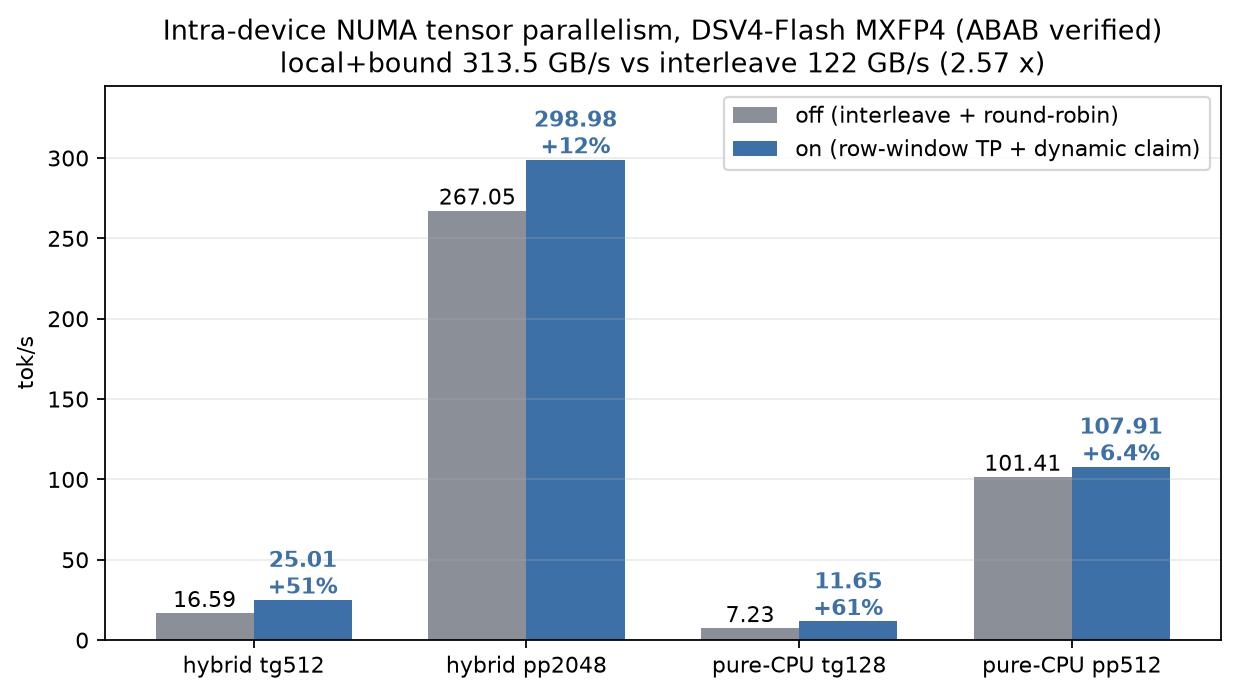
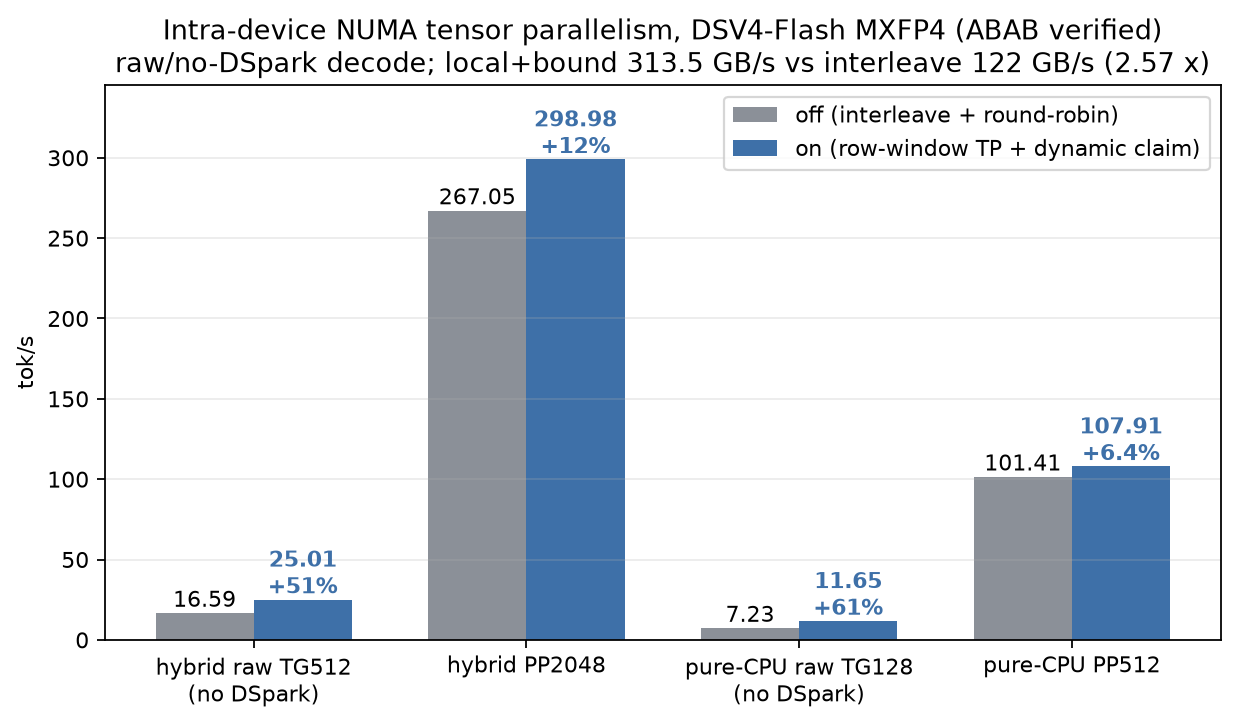
docs: distinguish raw and DSpark results
Assisted-by: OpenAI Codex

diff --git a/docs/benchmarks/plot-project-overview.py b/docs/benchmarks/plot-project-overview.py
@@ -28,35 +28,35 @@ def finish(fig, name):
 
 def evolution():
     stages = [
-        "Baseline\nMXFP4",
-        "Spec-decode\ntune (n2/p0)",
-        "Op fusion +\nasync readback",
-        "E4A native\nlayout",
-        "64-row claim +\ntail batching",
-        "Strict K24\nhot-expert",
+        "MXFP4\nbaseline",
+        "DSpark\ntune (n2/p0)",
+        "Raw GPU\nop fusion",
+        "E4A raw\nnative layout",
+        "DSpark claim +\ntail batching",
+        "E4A raw\nstrict K24 hot",
     ]
     x = np.arange(len(stages))
-    pp = [309, 309, 309, 363, 367, 361.47]
-    raw = [24.9, 24.9, 25.9, 24.83, 25.02, 30.23]
-    spec = [23.9, 26.8, 26.8, 26.8, 30.1, 30.1]
+    pp = [309, np.nan, np.nan, 362.92, np.nan, 361.47]
+    raw = [24.9, np.nan, 25.9, 24.83, np.nan, 30.23]
+    spec = [23.9, 26.8, np.nan, np.nan, 30.1, np.nan]
 
     fig, left = plt.subplots(figsize=(10, 4.8))
     right = left.twinx()
-    left.step(x, pp, where="post", marker="o", color=GREEN, linewidth=2.2, label="pp2048 (tok/s, left)")
-    right.step(x, raw, where="post", marker="s", color=BLUE, linewidth=2.2, label="tg512 raw (tok/s, right)")
-    right.step(x, spec, where="post", marker="^", linestyle="--", color=ORANGE, linewidth=2.2, label="tg512 speculative (tok/s, right)")
+    left.plot(x, pp, marker="o", color=GREEN, linewidth=2.2, label="PP2048 (prefill, left)")
+    right.plot(x, raw, marker="s", color=BLUE, linewidth=2.2, label="TG512 raw/no-DSpark (right)")
+    right.plot(x, spec, marker="^", linestyle="--", color=ORANGE, linewidth=2.2, label="TG512 DSpark speculative (right)")
     left.set_ylim(250, 430)
     right.set_ylim(20, 33)
     left.set_ylabel("Prefill pp2048 (tok/s)", color=GREEN)
-    right.set_ylabel("Decode tg512 (tok/s)")
+    right.set_ylabel("Decode TG512 (raw/spec; see legend)")
     left.set_xticks(x, stages)
     left.grid(alpha=0.25)
     lines = left.lines + right.lines
     left.legend(lines, [line.get_label() for line in lines], loc="upper left")
-    left.set_title("DSV4-Flash performance milestones (2 x Xeon ICX-SP + 2 x RTX 3090)\nstrict E4A K24 final: PPL 2.7758 -> 2.7548; tracks are not multiplicative")
-    for px, py, label, offset in [(0, 309, "309", (-12, 10)), (3, 363, "363", (0, 10)), (5, 361.47, "361.47", (12, -16))]:
+    left.set_title("DSV4-Flash independently measured performance tracks (2 x Xeon ICX-SP + 2 x RTX 3090)\nblank points are untested cross-combinations; tracks must not be multiplied")
+    for px, py, label, offset in [(0, 309, "309", (-12, 10)), (3, 362.92, "362.92", (0, 10)), (5, 361.47, "361.47", (12, -16))]:
         left.annotate(label, (px, py), xytext=offset, textcoords="offset points", ha="center", color=GREEN, fontweight="bold")
-    for px, py, label, offset in [(0, 24.9, "24.9", (0, -18)), (2, 25.9, "25.9", (0, -16)), (4, 25.02, "25.02", (-12, -16)), (5, 30.23, "30.23", (0, -16))]:
+    for px, py, label, offset in [(0, 24.9, "24.9", (0, -18)), (2, 25.9, "25.9", (0, -16)), (3, 24.83, "24.83", (-12, -16)), (5, 30.23, "30.23", (0, -16))]:
         right.annotate(label, (px, py), xytext=offset, textcoords="offset points", ha="center", color=BLUE, fontweight="bold")
     for px, py, label in [(0, 23.9, "23.9"), (1, 26.8, "26.8"), (4, 30.1, "30.1")]:
         right.annotate(label, (px, py), xytext=(0, 10), textcoords="offset points", ha="center", color=ORANGE, fontweight="bold")
@@ -64,7 +64,7 @@ def evolution():
 
 
 def numa_tp():
-    labels = ["hybrid tg512", "hybrid pp2048", "pure-CPU tg128", "pure-CPU pp512"]
+    labels = ["hybrid raw TG512\n(no DSpark)", "hybrid PP2048", "pure-CPU raw TG128\n(no DSpark)", "pure-CPU PP512"]
     off = np.array([16.59, 267.05, 7.23, 101.41])
     on = np.array([25.01, 298.98, 11.65, 107.91])
     changes = ["+51%", "+12%", "+61%", "+6.4%"]
@@ -78,7 +78,7 @@ def numa_tp():
     ax.set_ylim(0, 345)
     ax.grid(axis="y", alpha=0.25)
     ax.legend(loc="upper right")
-    ax.set_title("Intra-device NUMA tensor parallelism, DSV4-Flash MXFP4 (ABAB verified)\nlocal+bound 313.5 GB/s vs interleave 122 GB/s (2.57 x)")
+    ax.set_title("Intra-device NUMA tensor parallelism, DSV4-Flash MXFP4 (ABAB verified)\nraw/no-DSpark decode; local+bound 313.5 GB/s vs interleave 122 GB/s (2.57 x)")
     for bar, value in zip(bars_off, off):
         ax.text(bar.get_x() + bar.get_width() / 2, value + 4, f"{value:.2f}", ha="center")
     for bar, value, change in zip(bars_on, on, changes):
@@ -153,7 +153,7 @@ def formats():
     trend_mask = kinds != "xllama"
     for ax, values, counter, ylabel, offsets, trend_label_x, trend_ha in (
         (axes[0], pp, counter_pp, "pp2048 (tok/s)", pp_offsets, 0.015, "left"),
-        (axes[1], tg, counter_tg, "tg512 (tok/s)", tg_offsets, 0.985, "right"),
+        (axes[1], tg, counter_tg, "tg512 raw/no-DSpark (tok/s)", tg_offsets, 0.985, "right"),
     ):
         trend_sizes = sizes[trend_mask]
         trend_values = values[trend_mask]
@@ -216,7 +216,7 @@ def udnl_mx_tradeoff():
     metrics = [
         ("Model size", [119.40, 116.13], [0, 0], "GiB", "lower is better", False),
         ("PP2048", [207.69, 418.95], [0, 3.50], "tok/s", "2.02 x faster", True),
-        ("TG512", [25.34, 26.90], [0, 0.25], "tok/s", "+6.2%", True),
+        ("TG512 raw\n(no DSpark)", [25.34, 26.90], [0, 0.25], "tok/s", "+6.2%", True),
         ("WikiText-2 PPL", [4.0189, 4.6047], [0, 0.1782], "PPL", "+14.6% worse", False),
     ]
     fig, axes = plt.subplots(1, 4, figsize=(13.2, 3.9))
@@ -270,9 +270,11 @@ def gpu_prefill():
 
 
 def remote_ep():
-    fig, axes = plt.subplots(1, 3, figsize=(12, 4.1))
+    fig, axes = plt.subplots(2, 2, figsize=(12, 7.8))
+    axes = axes.ravel()
     pairs = [
-        ([22.1, 25.2], ["1 machine\n2 NUMA workers", "2 machines\n4 NUMA workers"], "DSV4-Flash TG512\nmatched pure EP", "tok/s"),
+        ([22.1, 25.2], ["1 machine\n2 NUMA workers", "2 machines\n4 NUMA workers"], "DSV4-Flash raw TG512 (no DSpark)\nmatched pure EP", "tok/s"),
+        ([25.25, 28.85], ["4-worker\nremote-only (A)", "CUDA1 K24 hot\n+ remote cold (B)"], "DSV4-Flash raw TG512 (no DSpark)\nstrict hot + remote bridge", "tok/s"),
         ([64.3, 75.6], ["1 machine\n2 NUMA workers", "2 machines\n4 NUMA workers"], "DSV4-Flash 31-token prompt\nmatched pure EP", "tok/s"),
         ([58.0, 11.5], ["TCP", "RDMA\nRoCEv2"], "Cross-machine RPC RTT\n64 B message", "us"),
     ]
@@ -285,9 +287,15 @@ def remote_ep():
         for bar, value in zip(bars, values):
             ax.text(bar.get_x() + bar.get_width() / 2, value * 1.03, f"{value:g}", ha="center", fontweight="bold")
     axes[0].text(0.5, 0.68, "+14.03%", transform=axes[0].transAxes, ha="center", color=PURPLE, fontsize=13, fontweight="bold")
-    axes[1].text(0.5, 0.68, "+17.57%", transform=axes[1].transAxes, ha="center", color=PURPLE, fontsize=13, fontweight="bold")
-    fig.subplots_adjust(top=0.72, wspace=0.35)
-    fig.suptitle("DSV4-Flash single-slot expert parallelism over a 100 GbE direct link\nmatched command and identical generated response", y=0.99)
+    axes[1].text(0.5, 0.66, "+14.26%", transform=axes[1].transAxes, ha="center", color=PURPLE, fontsize=13, fontweight="bold")
+    axes[1].text(0.5, 0.54, "paired PPL -0.85%", transform=axes[1].transAxes, ha="center", color=ORANGE, fontsize=10, fontweight="bold")
+    axes[2].text(0.5, 0.68, "+17.57%", transform=axes[2].transAxes, ha="center", color=PURPLE, fontsize=13, fontweight="bold")
+    fig.subplots_adjust(top=0.84, wspace=0.28, hspace=0.52)
+    fig.suptitle(
+        "Independent DSV4-Flash single-slot EP comparisons over a 100 GbE direct link\n"
+        "combined hot + remote result is strict-cover REQ4, raw/no-DSpark, and not MAX_EFFORT",
+        y=0.985,
+    )
     finish(fig, "remote-ep.png")
 
 

diff --git a/README.en.md b/README.en.md
@@ -16,15 +16,16 @@ Primary test system: dual Intel Ice Lake-SP sockets (152 logical threads, 251 Gi
 
 ## Verified results
 
-Each row below is an independent benchmark scope. Percentages from different rows must not be multiplied together.
+Each row below is an independent benchmark scope. Percentages from different rows must not be multiplied together. Decode results are explicitly labeled `raw/no-DSpark` or `DSpark speculative`; PP is prefill and contains no draft-acceptance gain.
 
 | Track | Matched baseline | Current result | Change |
 |---|---:|---:|---:|
 | DSV4 pp2048, quality-equivalent MXFP4 -> E4A | 312.48 tok/s | **362.92 tok/s** | **+16.1%** |
-| DSV4 DSpark decode, n2/p0 | 23.9 tok/s | **30.1 tok/s** | **+26%** |
-| DSV4 E4A decode, strict hot experts, 12-run A/B | 25.02 tok/s | **30.23 tok/s** | **+20.85%** |
+| DSV4 DSpark speculative decode, n2/p0 | 23.9 tok/s | **30.1 tok/s** | **+26%** |
+| DSV4 E4A raw/no-DSpark decode, strict hot experts, 12-run A/B | 25.02 tok/s | **30.23 tok/s** | **+20.85%** |
 | DSV4 16K GPU MoE prefill | 213 tok/s | **334.5 tok/s** | **+57%** |
-| DSV4 single-slot pure EP, 2 -> 4 NUMA workers | 22.1 tok/s | **25.2 tok/s** | **+14.03%** |
+| DSV4 single-slot raw/no-DSpark pure EP, 2 -> 4 NUMA workers | 22.1 tok/s | **25.2 tok/s** | **+14.03%** |
+| DSV4 single-slot raw/no-DSpark, four-worker strict remote-only -> GPU-hot + CPU-remote | 25.25 tok/s | **28.85 tok/s** | **+14.26%** |
 | GLM-5.2 pp512, true EP on 2 -> 4 NUMA workers | 24.13 tok/s | **40.59 tok/s** | **+68.2%** |
 
 ![Milestones across three performance tracks](docs/img/evolution-staircase.png)
@@ -37,11 +38,11 @@ Naive interleaving on a dual-socket machine sends a large fraction of weight rea
 
 ### 2. Mirror: eliminate remote reads first
 
-`--numa mirror` keeps one complete weight replica per socket and binds pages and threads to the same node. It removes cross-UPI expert traffic and reaches 30.35 tok/s on DSV4 tg512, about 8%-13% above the same-machine upstream distribute result of 26.9-28.0 tok/s. The cost is 2 x expert-weight memory.
+`--numa mirror` keeps one complete weight replica per socket and binds pages and threads to the same node. It removes cross-UPI expert traffic and reaches 30.35 tok/s on DSV4 raw/no-DSpark tg512, about 8%-13% above the same-machine upstream distribute result of 26.9-28.0 tok/s. The cost is 2 x expert-weight memory.
 
 ### 3. NUMA EP: half the memory, but static ownership is too coarse
 
-The next design stores each expert on only one node. Expert memory is halved and pp512 roughly matches mirror (343-348 versus 338-347 tok/s). At batch=1, however, one expert is one indivisible GEMV. Statically placing eight active experts into two nodes leaves a long-tail bubble and reaches only 23.9-24.2 tok/s on tg512. This stage established the central constraint: **placement must preserve fine-grained parallelism and scheduling freedom.**
+The next design stores each expert on only one node. Expert memory is halved and pp512 roughly matches mirror (343-348 versus 338-347 tok/s). At batch=1, however, one expert is one indivisible GEMV. Statically placing eight active experts into two nodes leaves a long-tail bubble and reaches only 23.9-24.2 tok/s on raw/no-DSpark tg512. This stage established the central constraint: **placement must preserve fine-grained parallelism and scheduling freedom.**
 
 ### 4. NUMA row-window TP + DME
 
@@ -51,9 +52,9 @@ The final layout alternates 128-row windows of every expert plane across the two
 
 | Workload | Off | On | Change |
 |---|---:|---:|---:|
-| hybrid tg512 | 16.59 | **25.01** | **+51%** |
+| hybrid raw/no-DSpark tg512 | 16.59 | **25.01** | **+51%** |
 | hybrid pp2048 | 267.05 | **298.98** | +12% |
-| pure-CPU tg128 | 7.23 | **11.65** | **+61%** |
+| pure-CPU raw/no-DSpark tg128 | 7.23 | **11.65** | **+61%** |
 | pure-CPU pp512 | 101.41 | **107.91** | +6.4% |
 
 On top of row-window TP, DME (Dynamic Matrix Execution) handles irregular MoE shapes inside each node:
@@ -67,8 +68,8 @@ On top of row-window TP, DME (Dynamic Matrix Execution) handles irregular MoE sh
 
 In the production-style hybrid path, the GPU runs attention, dense layers, the router, and KV; the CPU runs routed experts. Three complementary mechanisms target different phases:
 
-- **Hot-expert residency**: the top 24 experts per layer cover about 57.6% of selections; compact MXFP4 weights for all 43 layers use 12.85 GiB. The GPU hot branch and CPU cold branch fork and join inside the graph. The GPU returns per-router-slot values, the CPU restores the baseline slot 0..5 left fold, and AVX512 vectorizes only across hidden rows. Twelve tg512 runs improve from 25.0167 to 30.2333 tok/s (+20.85%); PP2048 is 361.47 tok/s and five-chunk PPL improves from 2.7758 to 2.7548.
-- **NVLink P2P TP**: capture-safe P2P allreduce and asynchronous D2H readback improve the TP path itself from 13.6 to 20.3 tok/s (+49%) and reduce `cudaStreamSynchronize` from about 690 to 150 calls per token. This is an internal TP-path A/B, not a comparison against the best layer-placement path.
+- **Hot-expert residency**: the top 24 experts per layer cover about 57.6% of selections; compact MXFP4 weights for all 43 layers use 12.85 GiB. The GPU hot branch and CPU cold branch fork and join inside the graph. The GPU returns per-router-slot values, the CPU restores the baseline slot 0..5 left fold, and AVX512 vectorizes only across hidden rows. Twelve raw/no-DSpark tg512 runs improve from 25.0167 to 30.2333 tok/s (+20.85%); PP2048 is 361.47 tok/s and five-chunk PPL improves from 2.7758 to 2.7548.
+- **NVLink P2P TP**: capture-safe P2P allreduce and asynchronous D2H readback improve the raw/no-DSpark TP path itself from 13.6 to 20.3 tok/s (+49%) and reduce `cudaStreamSynchronize` from about 690 to 150 calls per token. This is an internal TP-path A/B, not a comparison against the best layer-placement path.
 - **Streaming MoE prefill**: expert weights remain in pinned host memory. Long prompts upload them once per layer, reuse them across tiles, and overlap H2D with dual-GPU expert-axis EP and three-slot prefetch.
 
 ![GPU streaming MoE prefill](docs/img/gpu-prefill-streaming.png)
@@ -88,13 +89,18 @@ In the production-style hybrid path, the GPU runs attention, dense layers, the r
 | Test | Before | After | Change |
 |---|---:|---:|---:|
 | GLM-5.2 MoE pp512, 2 -> 4 workers | 24.13 | **40.59** | **1.682 x** |
-| DSV4 MXFP4 TG512, 2 -> 4 workers | 22.1 | **25.2** | **1.140 x** |
+| DSV4 MXFP4 raw/no-DSpark TG512, 2 -> 4 workers | 22.1 | **25.2** | **1.140 x** |
+| DSV4 raw/no-DSpark TG512, four-worker strict remote-only -> GPU-hot + CPU-remote | 25.25 | **28.85** | **+14.26%** |
 | DSV4 16K PP, UB64 -> UB256 | 235.37 | **269.36** | +14.4% |
 | 64 B RPC RTT, TCP -> RoCEv2 | 42-74 us | **10-13 us** | about 4-6 x lower |
 
-GLM dense layers and attention remain on the GPU; the first row scales only CPU MoE. Aggregate decode time for 75 MoE layers falls from 86.71 to 69.58 ms/token (1.246 x), with byte-identical 128-token output. Fixed-acceptance DSV4 pure EP over four workers and RDMA reaches 37.921 tok/s on average and 38.423 tok/s at peak, with the same output SHA256 as the single-machine reference.
+GLM dense layers and attention remain on the GPU; the first row scales only CPU MoE. Aggregate raw/no-DSpark decode time for 75 MoE layers falls from 86.71 to 69.58 ms/token (1.246 x), with byte-identical 128-token output. A separate DSV4 four-worker pure-EP run explicitly using DSpark speculative decode (NMAX=3) reaches 37.921 tok/s on average and 38.423 tok/s at peak, with the same output SHA256 as its matched single-machine reference; it is not mixed with the raw 25.2 tok/s row above.
 
-The new DSV4 row is a matched single run with one slot, one master, one model, and one command. Two local workers own 128 experts each; four cross-machine workers own 64 each, while `KLOCAL=0` makes the master skip all routed-expert weights. Generated-response SHA256 is identical across the two topologies. The hosts have different core counts and network latency, so this system result is not an ideal 2 x scaling claim.
+The 2 -> 4 DSV4 row is a matched single run with one slot, one master, one model, and one command. Two local workers own 128 experts each; four cross-machine workers own 64 each, while `KLOCAL=0` makes the master skip all routed-expert weights. Generated-response SHA256 is identical across the two topologies. The hosts have different core counts and network latency, so this system result is not an ideal 2 x scaling claim.
+
+GPU-hot + CPU-remote-EP has now passed one narrowly scoped end-to-end configuration: one slot, raw/no-DSpark, four-worker modulo strict cover, synchronous REQ4, and no MAX_EFFORT. Eight TG512 runs in ABBA+BAAB order are A (remote-only) `[24.9, 25.2, 25.5, 25.4]` and B (K24 hot + remote cold) `[29.6, 28.3, 28.6, 28.9]` tok/s, for 25.25 -> **28.85 tok/s (+14.26%)**. Same-command b1/ub1 five-chunk PPL is 2.7647 -> **2.7412 (-0.85%)**. All four A hashes agree and all four B hashes agree, but A differs from B, so this is not a bit-exact claim across CPU and GPU kernels. Every B run has 43/43 hot-fork and 43/43 remote-bridge markers.
+
+An eight-token verbose diagnostic checks structure only and is not a performance sample. Across 301 one-token MoE calls, CPU assignments fall from 1,806 to 916 (-49.28%), endpoint totals are 239/220/213/244, all-four-worker fanout falls from 117 to 18 calls, mean remote wait falls from 0.444 to 0.310 ms, and mixed merge averages 0.0296 ms. These results do not extend to DSpark, MAX_EFFORT, or multiple slots, and must not be multiplied by the independent hot-expert or remote-EP gains.
 
 ## Kernel evolution
 
@@ -111,16 +117,16 @@ An arec (activation record) precomputes the Q8 activation and scale once. Weight
 
 ### Fusion and asynchronous boundaries
 
-- the five-kernel DSV4 router chain becomes one single-warp kernel, and small-row indexer top-k becomes one radix kernel; GPU busy time falls from 18.76 to 18.23 ms/token and tg rises from 25.15 to 25.91;
+- the five-kernel DSV4 router chain becomes one single-warp kernel, and small-row indexer top-k becomes one radix kernel; GPU busy time falls from 18.76 to 18.23 ms/token and raw/no-DSpark tg rises from 25.15 to 25.91;
 - pinned staging plus event draining cuts CPU input readback from 13 to 4.6 ms/token;
-- MXFP4 repack GEMV software prefetch adds 2.6% TG;
-- 64-row claims and UDNL tail batching improve DSpark n2/p0 from 26.50 to 30.10 tok/s without changing acceptance or output.
+- MXFP4 repack GEMV software prefetch adds 2.6% raw/no-DSpark TG;
+- 64-row claims and UDNL tail batching improve DSpark speculative n2/p0 from 26.50 to 30.10 tok/s without changing acceptance or output.
 
 ## Format evolution
 
 ### The “why is Q2_K slower than expected?” starting point
 
-An initial 90.9 GiB model named `Q2_K` reached only 223.60 pp2048 and 22.87 tg512. Its TG was below the larger Q3_R at 25.30 tok/s, although its PP was above the not-yet-optimized Q3_R GEMM path at 174.60 tok/s. GGUF metadata then revealed that it was actually IQ2_XXS at 2.0625 bpw, not Q2_K. The apparent “Q2_K < Q3_K” result therefore separated into a labeling problem and a kernel-efficiency problem: codebook lookup, scale expansion, dequantization-chain length, and access to batch GEMM can dominate nominal bpw.
+An initial 90.9 GiB model named `Q2_K` reached only 223.60 pp2048 and 22.87 raw/no-DSpark tg512. Its TG was below the larger Q3_R at 25.30 tok/s, although its PP was above the not-yet-optimized Q3_R GEMM path at 174.60 tok/s. GGUF metadata then revealed that it was actually IQ2_XXS at 2.0625 bpw, not Q2_K. The apparent “Q2_K < Q3_K” result therefore separated into a labeling problem and a kernel-efficiency problem: codebook lookup, scale expansion, dequantization-chain length, and access to batch GEMM can dominate nominal bpw.
 
 The format work therefore moves from “fewest bits” to storage layouts that follow the kernel access order:
 
@@ -134,7 +140,7 @@ The figure and table use one 2026-08-24 `performance` recipe for 17 format point
 
 UDNL_MX was regenerated from the verified source and rerun with the same `performance` recipe, replacing the old tainted row in the chart; its PPL uses the historical 20×512 WikiText-2 scope. Other PPL values are reused from prior measurements of the same weights because CPU frequency does not affect PPL. The PP/TG value for `UD-IQ4_XS`, 215.93/21.10, is weighted by repeat count from the original three runs at 219.09/21.62 and five supplemental runs at 214.03/20.78. The current loader identifies the routed MoE tensors in `UD-Q4_K_XL` as MXFP4, so that row is not a pure-Q4 expert endpoint. See [BENCHMARKS](docs/BENCHMARKS.md) for all 17 points and the historical scope.
 
-| Format | Size | pp2048 | tg512 | WikiText-2 PPL | Role |
+| Format | Size | pp2048 | tg512 raw/no-DSpark | WikiText-2 PPL | Role |
 |---|---:|---:|---:|---:|---|
 | MXFP4 | 145.26 GiB | 312.48 | 26.87 | 3.5830 | quality and speed anchor |
 | **UDNL_W4 + arec** | 146.36 GiB | 370.87 | 25.10 | 3.7997 | fixed 4-bit compute-oriented layout |
@@ -143,9 +149,11 @@ UDNL_MX was regenerated from the verified source and rerun with the same `perfor
 | UD-Q3_K_M | 119.28 GiB | 207.20 | 25.49 | 4.0242 | standard UD reference |
 | UD-Q3_K_XL | 119.40 GiB | 207.69 | 25.34 | 4.0189 | standard UD reference |
 
-Corrected UDNL_MX is about 2.7% smaller than Q3_K_XL while delivering about 2.0× PP and +6.2% TG, but its PPL is 14.6% worse. It is therefore **not recommended as a Q3_K_XL replacement**. E4A strict-hot remains the quality-gated path, while UDNL_W4 is the fixed 4-bit kernel research line. New Q2/Q3/Q4 mixtures remain under validation; unfinished models receive no placeholder performance or quality claims.
+Corrected UDNL_MX is about 2.7% smaller than Q3_K_XL while delivering about 2.0× PP and +6.2% raw/no-DSpark TG, but its PPL is 14.6% worse. It is therefore **not recommended as a Q3_K_XL replacement**. E4A strict-hot remains the quality-gated path, while UDNL_W4 is the fixed 4-bit kernel research line.
 
-A K24 strict-hot pilot on corrected UDNL_MX raises TG from 26.9 to 31.3 tok/s (+16.36%) and improves same-command five-chunk PPL from 3.5614 to 3.5218. However, the cold GGUF plus 12.8496 GiB of hot weights total about **128.978 GiB**, 8.02% larger than Q3_K_XL, and no same-command 20-chunk Q3 comparison exists. This is a speed/negative-quality ablation, not a same-quality headline or recommended configuration.
+The first Q2/Q3/Q4 mixture has not produced a model. Phase A v1 selected `Q2_K/Q3_K/Q4_K = 61/58/10`, with a **108.4046 GiB** dry run, proxy loss **0.898640× all-Q3**, and expert traffic **0.903594× all-Q3**. Materialization was rejected by the gate when anomalous MXFP4 source data in the `blk.21` gate/up pair made a Q3 fp16 scale become `inf`; no model was emitted. A full read-only scan found only those two gate/up tensors unsafe to convert. v2 preserves the complete gate/up atomic pair as MXFP4, yielding `Q2_K/Q3_K/Q4_K/MXFP4 = 61/56/10/2` and a **108.8109 GiB** dry run. Full v2 conversion has not started, so there is still no PPL, raw TG, or DSpark TG and no placeholder result appears in the table.
+
+A K24 strict-hot raw/no-DSpark pilot on corrected UDNL_MX raises TG from 26.9 to 31.3 tok/s (+16.36%) and improves same-command five-chunk PPL from 3.5614 to 3.5218. However, the cold GGUF plus 12.8496 GiB of hot weights total about **128.978 GiB**, 8.02% larger than Q3_K_XL, and no same-command 20-chunk Q3 comparison exists. This is a speed/negative-quality ablation, not a same-quality headline or recommended configuration.
 
 ![Size, speed, and quality tradeoff of corrected UDNL_MX](docs/img/udnl-mx-tradeoff.png)
 

diff --git a/docs/PARAMETERS.md b/docs/PARAMETERS.md
@@ -251,16 +251,17 @@ server 侧资格门：全新单序列 prompt、token 数 ≥ 阈值、无 cache 
 | `GGML_HOT_EXPERT` | 关 | 总开关（`=1` 开启） |
 | `GGML_HOT_EXPERT_TABLE` | 空（开启时**必填**，缺失报错） | 热专家 TSV 路径（`GGML_MOE_HOT_STATS` 产出格式） |
 | `GGML_HOT_EXPERT_GGUF` | 空（开启时**必填**） | 模型 GGUF 路径（读取热专家权重来源） |
-| `GGML_HOT_EXPERT_K` | `16` | 每层钉驻的热专家数；DSV4 最终单槽质量门使用 K24（约 13.16 GiB 热权重），不得在未做显存与 PPL 门禁时机械照搬 |
+| `GGML_HOT_EXPERT_K` | `16` | 每层钉驻的热专家数；DSV4 最终单槽质量门使用 K24（12.8496 GiB 热权重），不得在未做显存与 PPL 门禁时机械照搬 |
 | `GGML_HOT_EXPERT_DEV` | `CUDA1` | 热专家驻留设备 |
 | `GGML_HOT_EXPERT_LAYERS` | `all` | 生效层：逗号表/区间（如 `42`、`30-42`） |
 | `GGML_HOT_EXPERT_MAX_TOKENS` | `1` | GPU fork 处理的最大 n_tokens；当前 compact graph 固定单 token，设置 >1 会 warning 并钳制到 1；`0` 禁用 fork |
 | `GGML_HOT_EXPERT_PACKED_IO` | 开 | 把 hidden、ids 和 router weights 按 256 B 对齐后合成一次 H2D；`=0` 回退三次独立 H2D。layer 42 callback ABBA 为 137.560 -> 134.432 us（+2.33%），43 层端到端收益仍待测 |
 | `GGML_HOT_EXPERT_SLOT_ORDER` | **开** | `=1` 让 GPU 回传逐 router-slot 专家输出，由 CPU 按 slot 0..5 严格左折叠，恢复 baseline 求和顺序；`=0` 回退 cold/hot 两 partial 最后相加的旧路径，用于 A/B。当前严格路径限定 `MAX_TOKENS=1` |
 | `GGML_HOT_EXPERT_SLOT_MERGE_AVX512` | **开** | x86 GCC/Clang 且 CPU 支持 AVX512F 时，跨 16 个 hidden rows 向量化 strict slot merge；slot 0..5 仍逐 slot 独立 `mul` 后 `add`，不使用 FMA。`=0` 强制 scalar 回退；其它平台自动 scalar |
+| `GGML_HOT_EXPERT_REMOTE_EP` | 关 | `=1` 将CUDA hot slots与scheduled remote-EP合并；当前只接受单slot、`n_seq_max=1`、`KLOCAL=0`、同步REQ4、`WEIGHT_ON_MASTER=1`、`PIPE=0`。dealer只向CPU派cold slots，master按原slot顺序合并 |
 | `GGML_HOT_EXPERT_MARKERS` | 关 | `=1` 输出稳定的 `[hotmarker] init/fork` 记录；init 显式包含 `slot_order=1/0`，供正式 benchmark meta 校验实际路径 |
 
-当前已验收范围是单槽 decode。DSV4 K24 的 12 轮配对结果为 25.0167→30.2333 tok/s，PP2048=361.47 tok/s，5-chunk PPL 2.7758→2.7548；多槽并发尚未验收，因为 staging/event 状态仍需从进程级单例拆成 per-context/per-slot 所有权。`SLOT_ORDER=0` 只用于旧路径消融，不应作为生产提速开关。
+当前已验收范围是单槽 decode。DSV4 K24 本地CPU cold路径的12轮结果为25.0167→30.2333 tok/s，PP2048=361.47 tok/s，5-chunk PPL 2.7758→2.7548。四路remote CPU cold桥接的raw/no-DSpark八轮为25.25→28.85 tok/s（+14.26%），paired PPL 2.7647→2.7412。后者仍是strict modulo cover，不是MAX_EFFORT。多槽并发尚未验收，因为 staging/event 状态仍需拆成per-context/per-slot所有权；当前in-flight原子门会拒绝并发覆盖。`SLOT_ORDER=0`只用于旧路径消融，不应作为生产提速开关。
 
 ---
 

diff --git a/docs/ARCHITECTURE.md b/docs/ARCHITECTURE.md
@@ -71,6 +71,8 @@ The hot path is restricted by model type, tensor format, token count, and device
 
 The current staging buffers and completion events are process-global and have been validated only for one active slot. A multi-slot implementation must make this state context/slot-owned before enabling concurrent hot forks; it must not reuse the single-slot path speculatively.
 
+Strict pure remote EP can opt into the same fork for one-token decode. CUDA1 computes slots whose expert is in the resident K24 set; the dealer receives an active mask and sends only cold slots to the NUMA workers. Sync REQ4 returns one unweighted vector per cold slot. The master applies each router weight once and folds GPU and CPU vectors in the original router-slot order. This bridge is restricted to one slot, KLOCAL=0, weight-on-master REQ4, and non-pipe execution. A per-layer in-flight guard rejects concurrent reuse of the global staging buffer.
+
 Speculative decoding wraps the target decode loop. DSpark drafts candidate tokens on its configured device, then the target model verifies them as a small batch. Draft acceptance changes the target `MUL_MAT_ID` shape, so decode kernel dispatch must remain workload-aware.
 
 ## Prefill data flow
@@ -101,6 +103,8 @@ master graph
 ```
 
 Each NUMA node can run one `llama-epd` process. Multiple workers cooperate on the same model request and slot; they are not independent model replicas. `SCHED_KLOCAL=0` is strict pure EP: the master cannot silently fall back to local routed-expert weights when coverage or transport fails.
+
+In the verified raw/no-DSpark bridge, CUDA1 hot slots reduce CPU assignments from 1,806 to 916 across 301 decode-layer calls. Four strict-cover workers receive 239/220/213/244 assignments, while TG512 improves from 25.25 to 28.85 tok/s and paired five-chunk PPL improves from 2.7647 to 2.7412. This result is not MAX_EFFORT replica mode and does not cover multiple slots or async PIPE.
 
 Transport selection is runtime-configured. RDMA requires matching support on master and worker; connection failure can fall back to TCP where the protocol permits it. Capability negotiation includes expert ownership and kernel compatibility. A reconnect is accepted only when the replacement worker reports the same execution contract.
 
